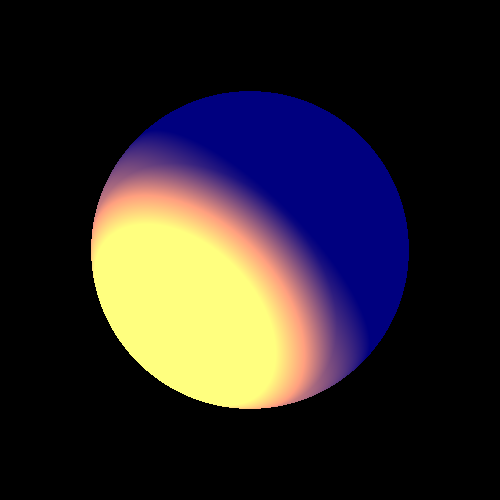
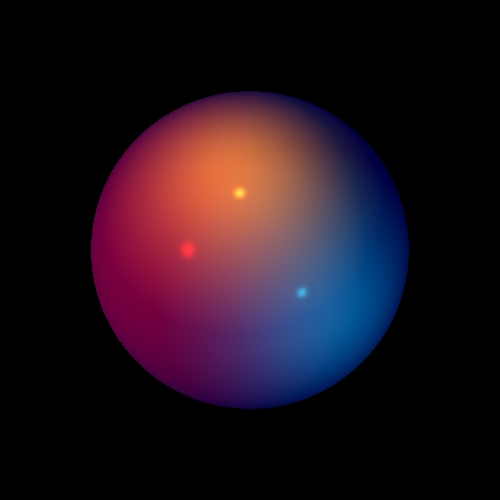
Enhance multi-light source tests with detailed scene configurations and improved lighting setups

diff --git a/unittests/renderer/MultiLightSourceTests.java b/unittests/renderer/MultiLightSourceTests.java
@@ -14,182 +14,241 @@ import primitives.Material;
 import primitives.Point;
 import primitives.Vector;
 import scene.Scene;
-
 import static java.awt.Color.BLUE;
 
+/**
+ * Integration tests for rendering scenes containing geometries illuminated by multiple
+ * types of light sources simultaneously (Directional, Point, and Spotlights).
+ * * Tests demonstrate color separation, light attenuation, and specular effects.
+ */
 public class MultiLightSourceTests {
-    /**
-     * Default constructor to satisfy Javadoc generator
-     */
-    MultiLightSourceTests() { /* to satisfy Javadoc generator */ }
 
     /**
-     * Constant for tests resolution
+     * Default constructor for MultiLightSourceTests.
+     */
+    MultiLightSourceTests() {
+    }
+
+    /**
+     * The internal image resolution width and height used for rendering the test targets.
      */
     private static final int RESOLUTION = 500;
 
     /**
-     * First scene for some of the tests
+     * Scene representing the spherical test target layout.
      */
-    private final Scene _scene1 = new Scene("Triangle scene");
-    /**
-     * Second scene for some of the tests
-     */
-    private final Scene _scene2 = new Scene("Sphere scene")
-            .setAmbientLight(new AmbientLight(new Color(38, 38, 38)));
+    private final Scene _scene1 = new Scene("Sphere scene")
+            .setAmbientLight(new AmbientLight(new Color(0, 0, 0)));
 
     /**
-     * First camera builder for some of the tests
+     * Scene representing the polygonal triangle test target layout.
      */
-    private final Camera.Builder _camera1 = Camera.getBuilder()                                //
-            .setRayTracer(_scene1, RayTracerType.SIMPLE)                                                              //
-            .setLocation(new Point(0, 0, 1000))                                                                       //
-            .setDirection(Point.ZERO, Vector.AXIS_Y)                                                                  //
+    private final Scene _scene2 = new Scene("Triangle scene")
+            .setAmbientLight(new AmbientLight(new Color(15, 15, 15)));
+
+    /**
+     * Camera builder adjusted for rendering the sphere scene layout.
+     */
+    private final Camera.Builder _camera1 = Camera.getBuilder()
+            .setRayTracer(_scene1, RayTracerType.SIMPLE)
+            .setLocation(new Point(0, 0, 1000))
+            .setDirection(Point.ZERO, Vector.AXIS_Y)
             .setVpSize(150, 150).setVpDistance(1000);
 
     /**
-     * Second camera builder for some of the tests
+     * Camera builder adjusted for rendering the triangle scene layout.
      */
-    private final Camera.Builder _camera2 = Camera.getBuilder()                                //
-            .setRayTracer(_scene2, RayTracerType.SIMPLE)                                                              //
-            .setLocation(new Point(0, 0, 1000))                                                                       //
-            .setDirection(Point.ZERO, Vector.AXIS_Y)                                                                  //
+    private final Camera.Builder _camera2 = Camera.getBuilder()
+            .setRayTracer(_scene2, RayTracerType.SIMPLE)
+            .setLocation(new Point(0, 0, 1000))
+            .setDirection(Point.ZERO, Vector.AXIS_Y)
             .setVpSize(200, 200).setVpDistance(1000);
 
     /**
-     * Shininess value for most of the geometries in the tests
+     * Default shininess exponent factor used for standard test materials.
      */
     private static final int SHININESS = 301;
+
     /**
-     * Diffusion attenuation factor for some of the geometries in the tests
+     * Default diffuse reflection coefficient scalar.
      */
     private static final double KD = 0.5;
-    /**
-     * Diffusion attenuation factor for some of the geometries in the tests
-     */
-    private static final Double3 KD3 = new Double3(0.2, 0.6, 0.4);
 
     /**
-     * Specular attenuation factor for some of the geometries in the tests
+     * Default specular reflection coefficient scalar.
      */
     private static final double KS = 0.5;
-    /**
-     * Specular attenuation factor for some of the geometries in the tests
-     */
-    private static final Double3 KS3 = new Double3(0.2, 0.4, 0.3);
 
     /**
-     * Material for some of the geometries in the tests
+     * Highly reflective material configuration tailored to make flat triangle faces
+     * significantly brighter and reactive to specular spotlights.
      */
-    private static final Material MATERIAL = new Material().setKD(KD3).setKS(KS3)
-            .setShininess(SHININESS);
-    /**
-     * Light color for tests with triangles
-     */
-    private static final Color TRIANGLES_LIGHT_COLOR = new Color(800, 500, 250);
-    /**
-     * Light color for tests with sphere
-     */
-    private static final Color SPHERE_LIGHT_COLOR = new Color(800, 500, 0);
-    /**
-     * Color of the sphere
-     */
-    private static final Color SPHERE_COLOR = new Color(BLUE).reduce(2);
+    private static final Material TRIANGLE_MATERIAL = new Material()
+            .setKD(new Double3(0.6, 0.6, 0.6))
+            .setKS(new Double3(0.8, 0.8, 0.8))
+            .setShininess(301);
 
     /**
-     * Center of the sphere
+     * The default color emission mask applied to the sphere instance.
+     */
+    private static final Color SPHERE_COLOR = new Color(BLUE).reduce(4);
+
+    /**
+     * Center origin coordinates of the target test sphere.
      */
     private static final Point SPHERE_CENTER = new Point(0, 0, -50);
+
     /**
-     * Radius of the sphere
+     * Radial boundaries size parameter of the target test sphere.
      */
     private static final double SPHERE_RADIUS = 50D;
 
     /**
-     * The triangles' vertices for the tests with triangles
+     * Spatial vertex map defining the corners of the composite triangles layout.
      */
-    private static final Point[] VERTICES =
-            {
-                    // the shared left-bottom:
-                    new Point(-110, -110, -150),
-                    // the shared right-top:
-                    new Point(95, 100, -150),
-                    // the right-bottom
-                    new Point(110, -110, -150),
-                    // the left-top
-                    new Point(-75, 78, 100)
-            };
-    /**
-     * Position of the light in tests with sphere
-     */
-    private static final Point SPHERE_LIGHT_POSITION = new Point(-50, -50, 25);
-    /**
-     * Light direction (directional and spot) in tests with sphere
-     */
-    private static final Vector SPHERE_LIGHT_DIRECTION = new Vector(1, 1, -0.5);
-    /**
-     * Position of the light in tests with triangles
-     */
-    private static final Point TRIANGLES_LIGHT_POSITION = new Point(30, 10, -100);
-    /**
-     * Light direction (directional and spot) in tests with triangles
-     */
-    private static final Vector TRIANGLES_LIGHT_DIRECTION = new Vector(-2, -2, -2);
+    private static final Point[] VERTICES = {
+            new Point(-110, -110, -150),
+            new Point(95, 100, -150),
+            new Point(110, -110, -150),
+            new Point(-75, 78, 100)
+    };
+
+    // =========================================================================
+    // SPHERE LIGHTING (3-zone color isolation setup constants)
+    // =========================================================================
 
     /**
-     * The sphere in appropriate tests
+     * Primary Crimson Red emission tint representing the background directional source for the sphere.
+     */
+    private static final Color SPHERE_DIR_COLOR = new Color(250, 0, 0);
+
+    /**
+     * Spatial vector path angle representing the background directional path for the sphere.
+     */
+    private static final Vector SPHERE_DIR_DIRECTION = new Vector(1, 0, -1);
+
+    /**
+     * Vivid Cyan emission tint representing the near foreground point light source for the sphere.
+     */
+    private static final Color SPHERE_POINT_COLOR = new Color(0, 600, 600);
+
+    /**
+     * Local positioning coordinate space map for the sphere point light component.
+     */
+    private static final Point SPHERE_POINT_POSITION = new Point(55, -45, 40);
+
+    /**
+     * Vibrant Yellow emission tint representing the targeted top focus spotlight for the sphere.
+     */
+    private static final Color SPHERE_SPOT_COLOR = new Color(600, 500, 0);
+
+    /**
+     * Local positioning coordinate space map for the sphere spotlight beam source.
+     */
+    private static final Point SPHERE_SPOT_POSITION = new Point(-10, 55, 40);
+
+    /**
+     * Vector target aim pointing path direction for the sphere spotlight component.
+     */
+    private static final Vector SPHERE_SPOT_DIRECTION = new Vector(0.2, -1, -0.8);
+
+    // =========================================================================
+    // TRIANGLES LIGHTING (Foreground high-intensity constants)
+    // =========================================================================
+
+    /**
+     * Primary Crimson Red emission tint representing the sweeping directional path across the triangles.
+     */
+    private static final Color TRIANGLES_DIR_COLOR = new Color(250, 0, 0);
+
+    /**
+     * Spatial vector path angle representing the direction of the red light across the triangles.
+     */
+    private static final Vector TRIANGLES_DIR_DIRECTION = new Vector(-1, -1, -1);
+
+    /**
+     * Vivid Cyan emission tint representing the foreground point source for the bottom-right triangle face.
+     */
+    private static final Color TRIANGLES_POINT_COLOR = new Color(0, 600, 600);
+
+    /**
+     * Local positioning coordinate space map for the triangle point light, placed in front (Z=80).
+     */
+    private static final Point TRIANGLES_POINT_POSITION = new Point(40, -40, 80);
+
+    /**
+     * Vibrant Yellow emission tint representing the front-left spotlight beam hitting the triangles center.
+     */
+    private static final Color TRIANGLES_SPOT_COLOR = new Color(600, 500, 0);
+
+    /**
+     * Local positioning coordinate space map for the triangle spotlight, placed in front (Z=80).
+     */
+    private static final Point TRIANGLES_SPOT_POSITION = new Point(-40, 40, 80);
+
+    /**
+     * Vector target aim pointing path direction for the triangle spotlight component.
+     */
+    private static final Vector TRIANGLES_SPOT_DIRECTION = new Vector(1, -1, -2);
+
+    /**
+     * Geometry instance of the structural test sphere.
      */
     private static final Geometry SPHERE = new Sphere(SPHERE_CENTER, SPHERE_RADIUS)
             .setEmission(SPHERE_COLOR).setMaterial(new Material().setKD(KD).setKS(KS).setShininess(SHININESS));
-    /**
-     * The first triangle in appropriate tests
-     */
-    private static final Geometry TRIANGLE1 = new Triangle(VERTICES[0], VERTICES[1], VERTICES[2])
-            .setMaterial(MATERIAL);
-    /**
-     * The first triangle in appropriate tests
-     */
-    private static final Geometry TRIANGLE2 = new Triangle(VERTICES[0], VERTICES[1], VERTICES[3])
-            .setMaterial(MATERIAL);
 
     /**
-     * Produce a picture of a sphere lighted by a directional light
+     * The first structural base asset component representing the right-side base triangle.
+     */
+    private static final Geometry TRIANGLE1 = new Triangle(VERTICES[0], VERTICES[1], VERTICES[2])
+            .setMaterial(TRIANGLE_MATERIAL);
+
+    /**
+     * The second structural base asset component representing the left-side tilting forward triangle.
+     */
+    private static final Geometry TRIANGLE2 = new Triangle(VERTICES[0], VERTICES[1], VERTICES[3])
+            .setMaterial(TRIANGLE_MATERIAL);
+
+    /**
+     * Produces a picture of a sphere illuminated by three distinct light sources
+     * (Directional, Point, Spot) showing isolated Red, Cyan, and Yellow zones.
      */
     @Test
     void testSphere() {
         _scene1.geometries.add(SPHERE);
 
-        _scene1.lights.add(new DirectionalLight(SPHERE_LIGHT_COLOR, SPHERE_LIGHT_DIRECTION));
-        _scene1.lights.add(new PointLight(SPHERE_LIGHT_COLOR, SPHERE_LIGHT_POSITION) //
-                .setKl(0.001).setKq(0.0002));
-        _scene1.lights.add(new SpotLight(SPHERE_LIGHT_COLOR, SPHERE_LIGHT_POSITION, SPHERE_LIGHT_DIRECTION) //
-                .setKl(0.001).setKq(0.0001));
+        _scene1.lights.add(new DirectionalLight(SPHERE_DIR_COLOR, SPHERE_DIR_DIRECTION));
+        _scene1.lights.add(new PointLight(SPHERE_POINT_COLOR, SPHERE_POINT_POSITION)
+                .setKl(0.001).setKq(0.0005));
+        _scene1.lights.add(new SpotLight(SPHERE_SPOT_COLOR, SPHERE_SPOT_POSITION, SPHERE_SPOT_DIRECTION)
+                .setKl(0.001).setKq(0.0003));
 
-
-        _camera1 //
-                .setResolution(RESOLUTION, RESOLUTION) //
-                .build() //
-                .renderImage() //
+        _camera1
+                .setResolution(RESOLUTION, RESOLUTION)
+                .build()
+                .renderImage()
                 .writeToImage("lightSphere");
     }
 
     /**
-     * Produce a picture of two triangles lighted by a directional light
+     * Produces a picture of two triangles brightly illuminated from the front
+     * using the high-intensity Red, Cyan, and Yellow palette to capture planar gradients.
      */
     @Test
     void testTriangles() {
         _scene2.geometries.add(TRIANGLE1, TRIANGLE2);
 
-        _scene2.lights.add(new DirectionalLight(TRIANGLES_LIGHT_COLOR, TRIANGLES_LIGHT_DIRECTION));
-        _scene2.lights.add(new SpotLight(TRIANGLES_LIGHT_COLOR, TRIANGLES_LIGHT_POSITION, TRIANGLES_LIGHT_DIRECTION) //
-                .setKl(0.001).setKq(0.0001));
-        _scene2.lights.add(new PointLight(TRIANGLES_LIGHT_COLOR, TRIANGLES_LIGHT_POSITION) //
-                .setKl(0.001).setKq(0.0002));
+        _scene2.lights.add(new DirectionalLight(TRIANGLES_DIR_COLOR, TRIANGLES_DIR_DIRECTION));
 
-        _camera2.setResolution(500, 500) //
-                .build() //
-                .renderImage() //
+        _scene2.lights.add(new PointLight(TRIANGLES_POINT_COLOR, TRIANGLES_POINT_POSITION)
+                .setKl(0.0005).setKq(0.0001));
+        _scene2.lights.add(new SpotLight(TRIANGLES_SPOT_COLOR, TRIANGLES_SPOT_POSITION, TRIANGLES_SPOT_DIRECTION)
+                .setKl(0.0005).setKq(0.0001));
+
+        _camera2
+                .setResolution(RESOLUTION, RESOLUTION)
+                .build()
+                .renderImage()
                 .writeToImage("lightTriangles");
-
     }
 }
